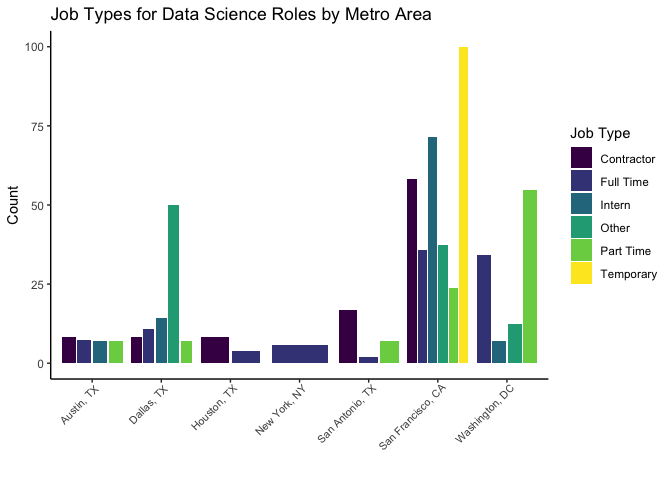
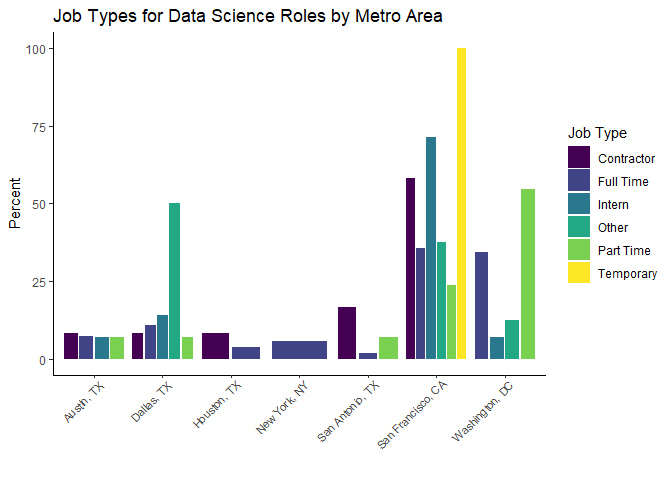
fixed job type graph

diff --git a/3_Results/3_1_Data-Science-roles.md b/3_Results/3_1_Data-Science-roles.md
@@ -47,7 +47,7 @@ ds_jobs %>%
   theme(axis.text.x = element_text(angle = 90)) +
   labs(title = 'Job Types for Data Science Roles by Metro Area',
        x = '',
-       y = 'Count') +
+       y = 'Percent') +
   scale_fill_discrete()+
   theme_classic() +
   scale_fill_viridis(discrete = TRUE, name = "Job Type",labels = c("Contractor", 
